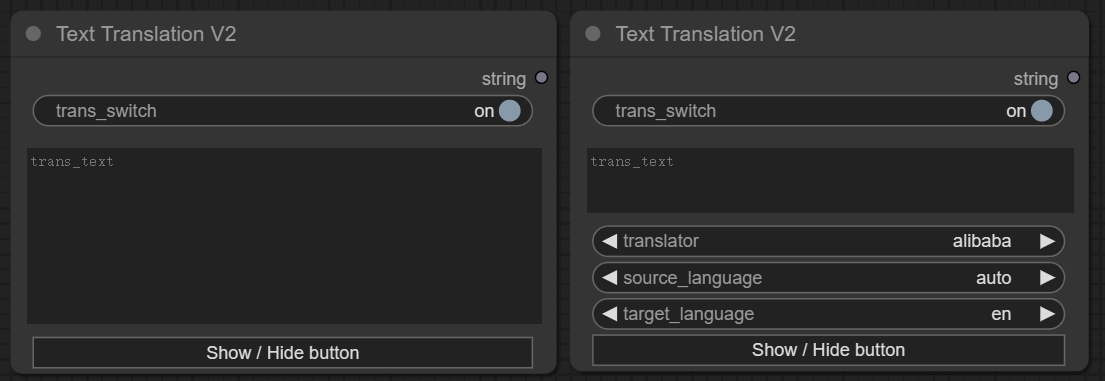
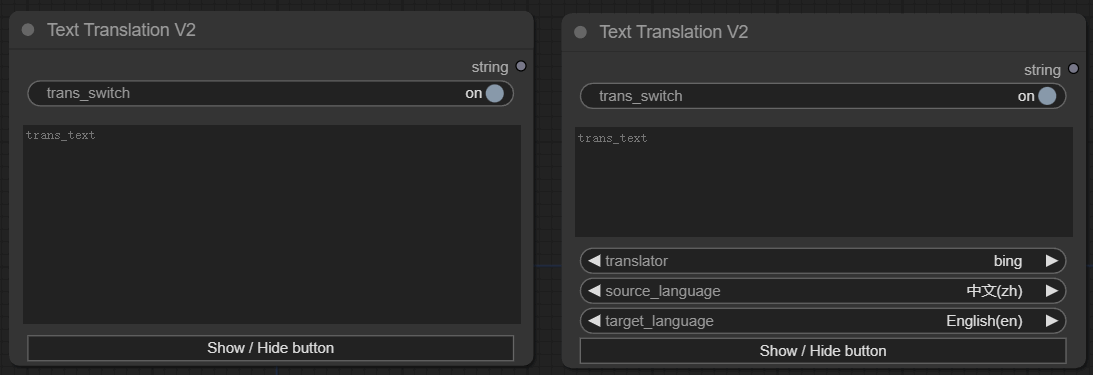
对 文本翻译 V2 新增些语言，新增 “文本翻译 V2  (完整版)” 节点，删除 “获取翻译平台列表” 节点

diff --git a/js/text.js b/js/text.js
@@ -12,6 +12,7 @@ app.registerExtension({
 			break;
 
 			case 'Text_Translation_V2':	
+			case 'Text_Translation_V2_Full':	
 				text_translation_v2_widget(nodeType, nodeData, app);
 			break;
 		}

diff --git a/nodes/text.py b/nodes/text.py
@@ -1,11 +1,6 @@
 
-from ..utils.translation import  translators, get_translator
+from ..utils.translation import  translators
 
-# 适应不同地区的人使用该节点，当前默认类别名为英文，按需自行更改
-# Adapt to people from different regions using this node. 
-# The current default class alias is in English and can be changed as needed
-
-# CATEGORY_NAME = "文本翻译"
 CATEGORY_NAME = "Text Translation"
 
 class Text:
@@ -62,21 +57,15 @@ class Text_Translation_V2:
     def __init__(self):
         pass
 
-    #  截止 [Translators](https://github.com/UlionTse/translators) 版本：v5.9.1 支持如下翻译平台：
-    # alibaba, apertium, argos, baidu, bing, caiyun, cloudTranslation, deepl, elia, 
-    # google, hujiang, iciba, iflytek, iflyrec, itranslate, judic, languageWire, lingvanex,
-    # niutrans, mglip, mirai, modernMt, myMemory, papago, qqFanyi, qqTranSmart, reverso, 
-    # sogou, sysTran, tilde, translateCom, translateMe, utibet, volcEngine, yandex, yeekit, youdao
-
     @classmethod
     def INPUT_TYPES(s):
         return {
             "required": {
                 "trans_switch": ("BOOLEAN", {"default": True, "label_on": "on", "label_off": "off"}),
                 "trans_text": ("STRING",  {"multiline": True}),
-                "translator": (["alibaba", "bing", "google", ],),   #直接再此添加 翻译平台
-                "source_language": (["auto", "zh", "en", ],),     #直接再此添加 相应支持的源语言
-                "target_language": (["en", "zh", ],),      #直接再此添加 相应支持的目标语言
+                "translator": (["Bing", "Google", "Alibaba"],), 
+                "source_language": (["auto", "中文(zh)", "English(en)", "Español(es)", "عربية(ar)", "हिन्दी(hi)", "Русский(ru)", "Français(fr)", "Deutsch(de)", "Português(pt)", "한국어(ko)", "日本語(ja)"],),    
+                "target_language": (["English(en)", "中文(zh)", "Español(es)", "عربية(ar)", "हिन्दी(hi)", "Русский(ru)", "Français(fr)", "Deutsch(de)", "Português(pt)", "한국어(ko)", "日本語(ja)"],),    
             },
         }
 
@@ -92,19 +81,30 @@ class Text_Translation_V2:
     def func(self, trans_switch, trans_text, translator, source_language, target_language):
         output_text = ""
         if trans_switch:
+            translator = translator.lower()
+            if(source_language != "auto"):
+               source_language = source_language.split("(")[1].split(")")[0]
+            target_language = target_language.split("(")[1].split(")")[0]
             output_text = translators(text = trans_text, translator = translator, source_language = source_language, target_language = target_language)
         else:
             output_text = trans_text
         return (output_text,)
     
-class Get_Translator:
+class Text_Translation_V2_Full:
     def __init__(self):
         pass
 
     @classmethod
     def INPUT_TYPES(s):
         return {
-            "required": { },
+            "required": {
+                "trans_switch": ("BOOLEAN", {"default": True, "label_on": "on", "label_off": "off"}),
+                "trans_text": ("STRING",  {"multiline": True}),
+                "translator": (["Alibaba", "Apertium", "Argos", "Baidu", "Bing", "Caiyun", "CloudTranslation", "DeepL", "Elia", "Google", "Hujiang", "Iciba", "Iflytek", "Iflyrec", "Itranslate", "Judic", "LanguageWire", "Lingvanex", "Niutrans", "Mglip", "Mirai", "ModernMt", "MyMemory", "Papago", "QqFanyi", "QqTranSmart", "Reverso", "Sogou", "SysTran", "Tilde", "TranslateCom", "TranslateMe", "Utibet", "VolcEngine", "Yandex", "Yeekit", "Youdao"],),  
+                "source_language": (["auto", "中文(zh)", "English(en)", "عربية(ar)", "Русский(ru)", "Français(fr)", "Deutsch(de)", "Español(es)", "Português(pt)", "Italiano(it)", "日本語(ja)", "한국어(ko)", "Ελληνικά(el)", "Nederlands(nl)", "हिन्दी(hi)", "Türkçe(tr)", "Melayu(ms)", "ไทย(th)", "Tiếng Việt(vi)", "Indonesia(id)", "עברית(he)", "Polski(pl)", "Монгол(mn)", "Čeština(cs)", "Magyar(hu)", "Eesti(et)", "Български(bg)", "Dansk(da)", "Suomi(fi)", "Română(ro)", "Svenska(sv)", "Slovenščina(sl)", "فارسی(fa)", "Bosanski(bs)", "Српски(sr)", "Fijian(fj)", "Tagalog(tl)", "Kreyòl ayisyen(ht)", "Català(ca)", "文言文 WYW(wyw)", "粵語(yue)", "内蒙语 Монгол(mn)", "维吾尔语 Уйгурча(uy)", "藏语 ትግርኛ(ti)", "白苗文 Hmoob(mww)", "彝语(ii)", "苗语 Hmong(hmn)", "壮语(zyb)"],),    
+                "target_language": (["English(en)", "中文(zh)", "عربية(ar)", "Русский(ru)", "Français(fr)", "Deutsch(de)", "Español(es)", "Português(pt)", "Italiano(it)", "日本語(ja)", "한국어(ko)", "Ελληνικά(el)", "Nederlands(nl)", "हिन्दी(hi)", "Türkçe(tr)", "Melayu(ms)", "ไทย(th)", "Tiếng Việt(vi)", "Indonesia(id)", "עברית(he)", "Polski(pl)", "Монгол(mn)", "Čeština(cs)", "Magyar(hu)", "Eesti(et)", "Български(bg)", "Dansk(da)", "Suomi(fi)", "Română(ro)", "Svenska(sv)", "Slovenščina(sl)", "فارسی(fa)", "Bosanski(bs)", "Српски(sr)", "Fijian(fj)", "Tagalog(tl)", "Kreyòl ayisyen(ht)", "Català(ca)", "文言文 WYW(wyw)", "粵語(yue)", "内蒙语 Монгол(mn)", "维吾尔语 Уйгурча(uy)", "藏语 ትግርኛ(ti)", "白苗文 Hmoob(mww)", "彝语(ii)", "苗语 Hmong(hmn)", "壮语(zyb)"]
+,),      
+            },
         }
 
     RETURN_TYPES = ("STRING",)
@@ -116,9 +116,41 @@ class Get_Translator:
 
     CATEGORY = CATEGORY_NAME
 
-    def func(self):
-        translator = get_translator()
-        return (translator,)
+    def func(self, trans_switch, trans_text, translator, source_language, target_language):
+        output_text = ""
+        if trans_switch:
+            translator = translator.lower()
+            if(source_language != "auto"):
+               source_language = source_language.split("(")[1].split(")")[0]
+            target_language = target_language.split("(")[1].split(")")[0]
+            output_text = translators(text = trans_text, translator = translator, source_language = source_language, target_language = target_language)
+        else:
+            output_text = trans_text
+        return (output_text,)
+    
+    
+# class Get_Translator:
+#     def __init__(self):
+#         pass
+
+#     @classmethod
+#     def INPUT_TYPES(s):
+#         return {
+#             "required": { },
+#         }
+
+#     RETURN_TYPES = ("STRING",)
+#     RETURN_NAMES = ("string",)
+
+#     FUNCTION = "func"
+
+#     #OUTPUT_NODE = False
+
+#     CATEGORY = CATEGORY_NAME
+
+#     def func(self):
+#         translator = get_translator()
+#         return (translator,)
 
 class Text_Switch:
     def __init__(self):
@@ -170,32 +202,20 @@ NODE_CLASS_MAPPINGS = {
     "Text": Text,
     "Text_Translation": Text_Translation,
     "Text_Translation_V2": Text_Translation_V2,
+    "Text_Translation_V2_Full": Text_Translation_V2_Full,
     "Text_Switch": Text_Switch,
     "Text_Concatenate": Text_Concatenate,
-    "Get_Translator": Get_Translator,
+    # "Get_Translator": Get_Translator,
 }
-
-
-# 适应不同地区的人使用该节点，当前默认节点名为英文，按需自行更改
-# Adapt to people from different regions using this node. 
-# The current default node name is English and can be changed as needed
-
-# NODE_DISPLAY_NAME_MAPPINGS = {
-#     "Text": "文本",
-#     "Text_Translation": "文本翻译",
-#     "Text_Translation_V2": "文本翻译V2",
-#     "Text_Switch": "文本开关",
-#     "Text_Concatenate": "文本联接",
-#     "Get_Translator": "获取翻译平台",
-# }
 
 NODE_DISPLAY_NAME_MAPPINGS = {
     "Text": "Text",
     "Text_Translation": "Text Translation",
     "Text_Translation_V2": "Text Translation V2",
+    "Text_Translation_V2_Full": "Text Translation V2 (Full)",
     "Text_Switch": "Text Switch",
     "Text_Concatenate": "Text Concatenate",
-    "Get_Translator": "Get Translator",
+    # "Get_Translator": "Get Translator",
 }
 
 

diff --git a/utils/translation.py b/utils/translation.py
@@ -19,4 +19,6 @@ def get_translator():
 
     except Exception as e:
         raise Exception(f"Error:  Translation failed , Message : {e}")
+
+
     

diff --git a/README.md b/README.md
@@ -3,11 +3,7 @@
 
 现版本无需申请翻译API的密钥，直接使用即可。
 
-现已添加的翻译平台：阿里巴巴（Alibaba）、必应（Bing）、谷歌（Google）。
-
-现已添加的翻译语言：中文（zh）、英文（en）。
-
-更多翻译平台请见 [Translators](https://github.com/UlionTse/translators)。其他的 翻译平台、翻译语言 等 需要自行添加，下文会给出其操作方法。
+该节点调用 [Translators](https://github.com/UlionTse/translators) 进行翻译。
 
 ## 注意：
 1、更新前 需要将2024年05月19日前使用的老项目删除，当前项目与老项目完全不兼容。
@@ -22,6 +18,15 @@
 
 ### 文本翻译 V2
 <img src="images/Text_Translation_V2.png" width="1024" />
+
+节点中只含有部分翻译平台和语言。
+
+默认隐藏多余选项，点击 `Show / Hide button` 显示或隐藏更多选项。
+
+### 文本翻译 V2 (完整版)
+<img src="images/Text_Translation_V2_Full.png" width="1024" />
+
+节点中包含全部翻译平台和语言，使用前请测试，该翻译平台是否支持当前选择的语言。可参考 [Translators](https://github.com/UlionTse/translators) 上列举的信息。
 
 默认隐藏多余选项，点击 `Show / Hide button` 显示或隐藏更多选项。
 
@@ -42,20 +47,14 @@
 
 文本开关，关闭则输出空字符串。
 
-### 获取翻译平台列表
-<img src="images/Get_Translator.png" width="256" />
 
-获取翻译平台列表，同时会在终端上显示。
-
-<img src="images/Get_Translator_a.png" width="700" />
-
-想要在ComfyUI上显示输出文本可以使用，如 [ComfyUI-Custom-Scripts](https://github.com/pythongosssss/ComfyUI-Custom-Scripts) 中的 `ShowText` 或其他节点
+提示：想要在ComfyUI上显示输出文本，例如 可以使用 [ComfyUI-Custom-Scripts](https://github.com/pythongosssss/ComfyUI-Custom-Scripts) 中的 `ShowText` 或其他节点
 
 ## 2、安装
 
-### （1）添加该节点到&nbsp;ComfyUI
+###  (1)添加该节点到&nbsp;ComfyUI
 
-#### &ensp;1） 方式一：克隆本项目
+#### &ensp;1) 方式一：克隆本项目
 
   ```
   cd custom_nodes
@@ -64,11 +63,11 @@
   ```
   git clone https://github.com/TFL-TFL/ComfyUI_Text_Translation.git
   ```
-#### &ensp;2） 方式二：直接下载ZIP
+#### &ensp;2) 方式二：直接下载ZIP
 
 下载解压后放入`custom_nodes`内
 
-### （2）配置环境
+###  (2)配置环境
 
   ```
   cd ComfyUI_Text_Translation
@@ -78,38 +77,44 @@
   ```
   ..\..\..\python_embeded\python.exe -s -m pip install -r requirements.txt
   ```
-#### （3）更改 翻译平台、翻译语言
-截止 [Translators](https://github.com/UlionTse/translators) 版本：v5.9.1 支持如下翻译平台：
 
+
+###  (3)重启ComfyUI
+
+  所有的步骤都操作完啦，可以愉快的创作呦！
+
+## 3、支持的翻译平台和语言
+
+### 支持的翻译平台
 ```
-alibaba -- 阿里巴巴（Alibaba）
+alibaba -- 阿里巴巴 (Alibaba)
 apertium -- Apertium
 argos -- Argos
-baidu -- 百度（Baidu）
-bing -- 必应（Bing）
-caiyun -- 彩云（Caiyun）
-cloudTranslation -- 云翻译（CloudTranslation）
+baidu -- 百度 (Baidu)
+bing -- 必应 (Bing)
+caiyun -- 彩云 (Caiyun)
+cloudTranslation -- 云翻译 (CloudTranslation)
 deepl -- DeepL
 elia -- Elia
-google -- 谷歌（Google）
-hujiang -- 沪江（Hujiang）
-iciba -- 金山词霸（ICIBA）
-iflytek -- 讯飞（iFlytek）
-iflyrec -- 讯飞语音识别（iFlyrec）
+google -- 谷歌 (Google)
+hujiang -- 沪江 (Hujiang)
+iciba -- 金山词霸 (ICIBA)
+iflytek -- 讯飞 (iFlytek)
+iflyrec -- 讯飞语音识别 (iFlyrec)
 itranslate -- iTranslate
 judic -- Judic
 languageWire -- LanguageWire
 lingvanex -- Lingvanex
-niutrans -- 牛翻译（Niutrans）
+niutrans -- 牛翻译 (Niutrans)
 mglip -- Mglip
 mirai -- Mirai
 modernMt -- ModernMT
 myMemory -- MyMemory
 papago -- Papago
-qqFanyi -- QQ翻译（QQFanyi）
-qqTranSmart -- QQ智能翻译（QQTranSmart）
+qqFanyi -- QQ翻译 (QQFanyi)
+qqTranSmart -- QQ智能翻译 (QQTranSmart)
 reverso -- Reverso
-sogou -- 搜狗（Sogou）
+sogou -- 搜狗 (Sogou)
 sysTran -- Systran
 tilde -- Tilde
 translateCom -- Translate.com
@@ -118,27 +123,67 @@ utibet -- UTibet
 volcEngine -- VolcEngine
 yandex -- Yandex
 yeekit -- Yeekit
-youdao -- 有道（Youdao）
+youdao -- 有道 (Youdao)
 ```
- 在 `.custom_nodes/ComfyUI_Text_Translation/nodes/text.py` 文件的如下位置修改：
-  <img src="images/Text_Translation_V2_s.png" width="1024"/>
-
-#### （4）修改节点显示的语言
-在 `.custom_nodes/ComfyUI_Text_Translation/nodes/text.py` 文件的 开头和 结尾 位置修改：
-
-修改节点类别：
-
-<img src="images/Text_Translation_V2_a.png" width="500"/>
-
-修改节点名称：
-
-<img src="images/Text_Translation_V2_b.png" width="500"/>
-
-#### （5）重启ComfyUI
-
-  所有的步骤都操作完啦，可以愉快的创作呦！
+### 支持的语言
+```
+中文 (zh)
+English (en)
+عربية (ar)
+Русский (ru)
+Français (fr)
+Deutsch (de)
+Español (es)
+Português (pt)
+Italiano (it)
+日本語 (ja)
+한국어 (ko)
+Ελληνικά (el)
+Nederlands (nl)
+हिन्दी (hi)
+Türkçe (tr)
+Melayu (ms)
+ไทย (th)
+Tiếng Việt (vi)
+Indonesia (id)
+עברית (he)
+Polski (pl)
+Монгол (mn)
+Čeština (cs)
+Magyar (hu)
+Eesti (et)
+Български (bg)
+Dansk (da)
+Suomi (fi)
+Română (ro)
+Svenska (sv)
+Slovenščina (sl)
+فارسی (fa)
+Bosanski (bs)
+Српски (sr)
+Fiji (fj)
+Tagalog (tl)
+Kreyòl ayisyen (ht)
+Català (ca)
+文言文 WYW (wyw)
+粵語 (yue)
+内蒙语 Монгол (mn)
+维吾尔语 Уйгурча (uy)
+藏语 ትግርኛ (ti)
+白苗文 Hmoob (mww)
+彝语 (ii)
+苗语 Hmong (hmn)
+壮语 (zyb)
+```
 
 ### 4、更新日志
+#### 2024-05-20
+1、文本翻译 V2：新增一些语言。
+
+2、新增 “文本翻译 V2  (完整版)” 节点。
+
+3、删除 “获取翻译平台列表” 节点。
+
 #### 2024-05-19
 1、弃用腾讯翻译API，简化配置，使用&nbsp;[Translators](https://github.com/UlionTse/translators)&nbsp;提供的方式进行翻译，无需申请密钥了。
 
@@ -152,6 +197,16 @@ youdao -- 有道（Youdao）
 #### 2023-08-22
 
 &emsp;初始提交，节点采用了[腾讯翻译API](https://cloud.tencent.com/product/tmt)进行文本翻译。
+
+### 5、报错
+如果有类似以下的报错信息，请删除该节点并重新添加。
+```
+Prompt outputs failed validation
+Text_Translation_V2:
+- Value not in list: translator: 'alibaba' not in ['Bing', 'Google', 'Alibaba']
+```
+### 6、其他
+作为一个新手小白，代码中可能会存在BUG，欢迎指正，我会尽量修复。
 
 
   
